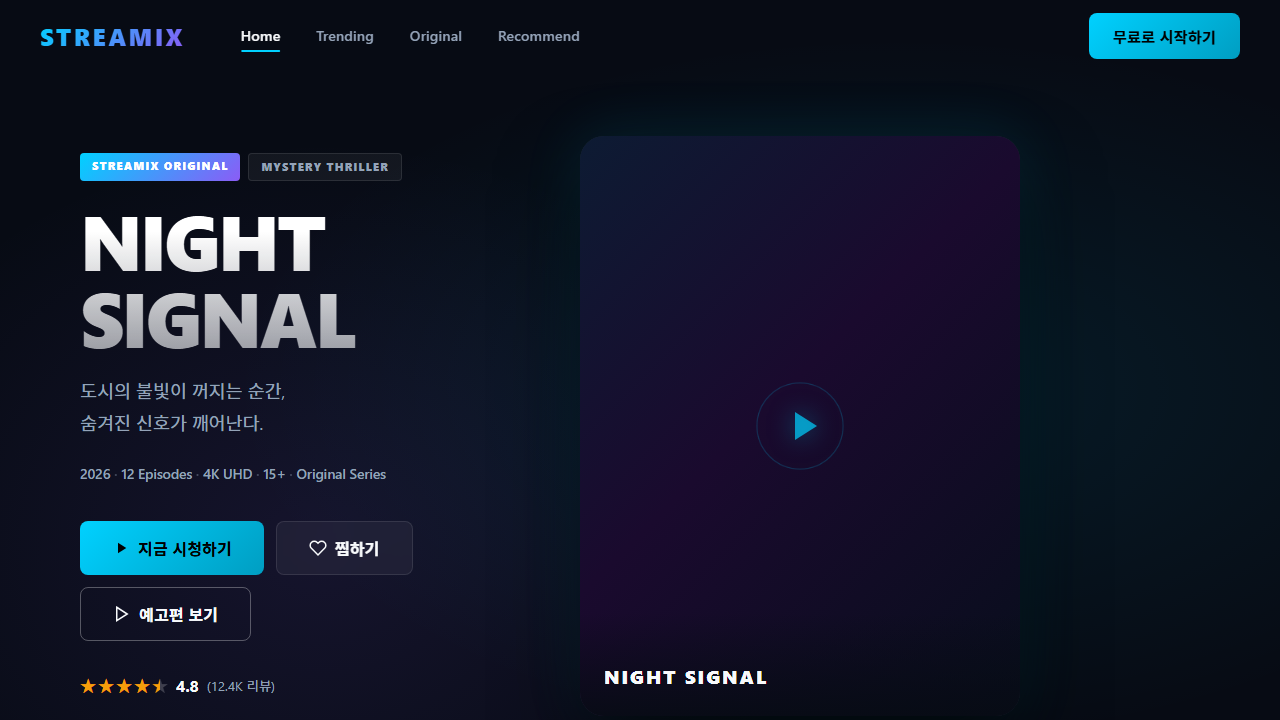
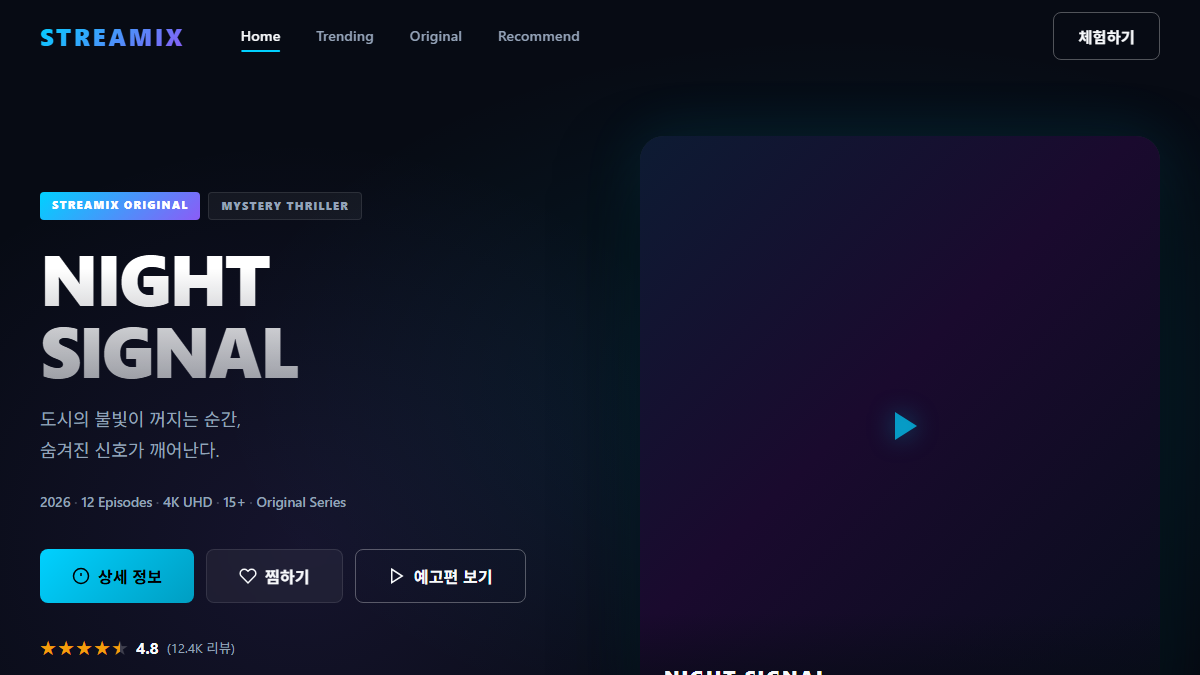
fix: 포트폴리오 OTT 썸네일 최신 화면으로 교체 및 잔여 주석 정리
- OTT Service 포트폴리오 썸네일이 구버전(무료로 시작하기/지금 시청하기) 스크린샷이라 최신 라이브 화면(체험하기/상세 정보/찜하기/예고편 보기)으로 재캡처해 교체
- main.js의 무료로 시작하기 주석을 실제 버튼 문구에 맞게 정리 (동작 변경 없음)

diff --git a/lecture1/OTT Service/js/main.js b/lecture1/OTT Service/js/main.js
@@ -154,7 +154,7 @@ function closeLoginModal() {
   if (lastLoginFocused) { lastLoginFocused.focus(); lastLoginFocused = null; }
 }
 
-// 무료로 시작하기 버튼 모두 연결
+// 테스트 계정으로 체험하기 버튼 모두 연결
 document.querySelectorAll('.js-start-btn').forEach((btn) => {
   btn.addEventListener('click', () => openLoginModal(btn));
 });